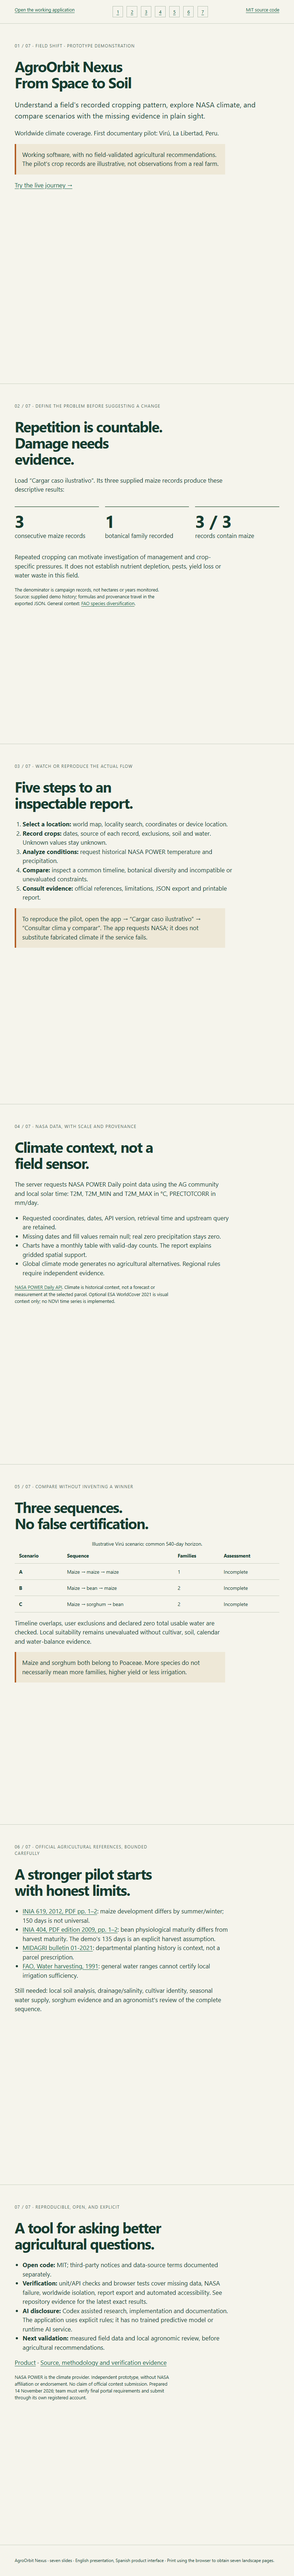
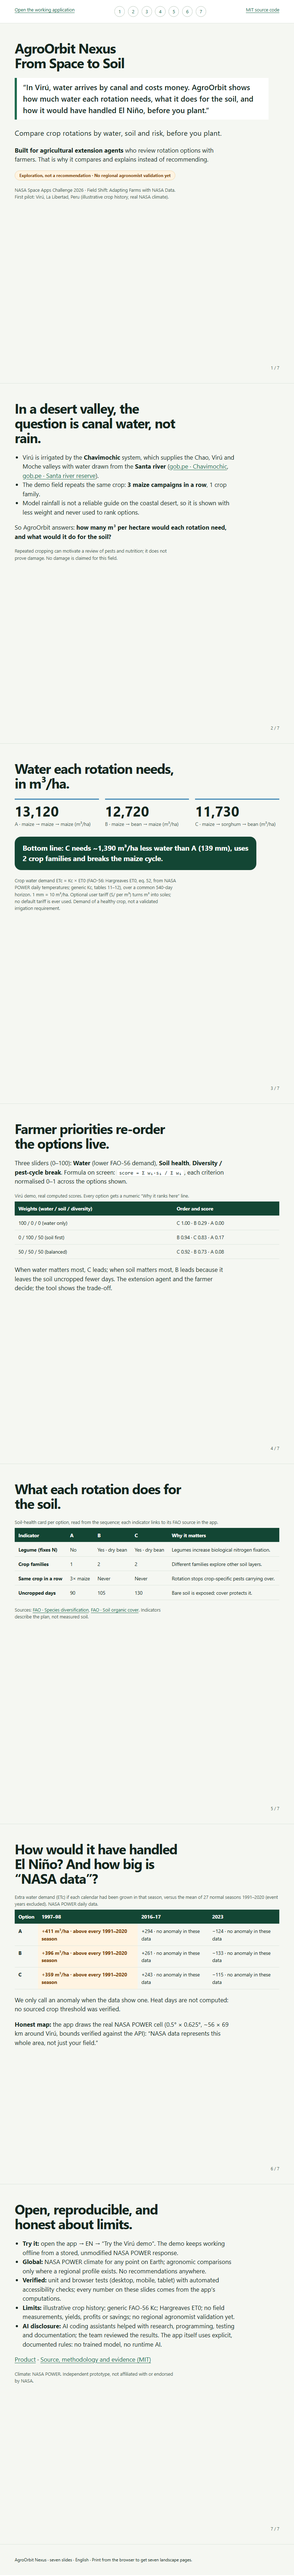
docs: English README, 30-second video script and project page text
README states the problem, the user (extension agents), the Virú figures, methods, limits, run and test steps, and a generic AI-use statement. VIDEO_SCRIPT and PROJECT_PAGE use only figures produced by the app. STATUS and METHODOLOGY record priorities, soil card, El Niño replay and NASA cell. Public links remain pending until deployment.

diff --git a/README.md b/README.md
@@ -1,67 +1,89 @@
 # AgroOrbit Nexus — From Space to Soil
 
-Plataforma agrícola de alcance mundial: clima histórico NASA POWER para coordenadas globales y análisis agrícola condicionado a la evidencia regional. Virú, Perú, es solo la demostración inicial. Sin login ni base de datos.
+**Compare crop rotations by water, soil and risk, before you plant.**
 
-**Estado al 14 de noviembre de 2026: solo localhost, por decisión del usuario.** Abrir http://127.0.0.1:3000; [demo inglesa local](http://127.0.0.1:3000/submission/index.html) y [PDF local](http://127.0.0.1:3000/submission/agroorbit-nexus-demo.pdf). Se retiró el acceso público al alojamiento anterior y sus referencias de los archivos vigentes. Clima NASA real; Virú ilustrativo con fichas INIA/MIDAGRI/FAO, sin validación agronómica de parcela o rotaciones. HLS/NDVI pendiente. Sin envío NASA comprobado.
+> In Virú, water arrives by canal and costs money. AgroOrbit shows how much water each rotation needs, what it does for the soil, and how it would have handled El Niño, before you plant.
 
-## Ejecutar
+**Built for agricultural extension agents who review rotation options with farmers.** That is why the app compares and explains instead of recommending: every result carries the label *“Exploration, not a recommendation · No regional agronomist validation yet”*.
 
-Requisitos: Node.js 24, npm y acceso a NASA POWER/teselas OSM.
+NASA Space Apps Challenge 2026 · **Field Shift: Adapting Farms with NASA Data**.
+
+- Working app (local): http://127.0.0.1:3000 · English UI: http://127.0.0.1:3000/?lang=en
+- Seven-slide deck (English): http://127.0.0.1:3000/submission/index.html · [PDF](public/submission/agroorbit-nexus-demo.pdf)
+- Public link: *pending — not deployed yet.*
+
+## What it shows (Virú demo, real NASA POWER data)
+
+| | A · maize → maize → maize | B · maize → bean → maize | C · maize → sorghum → bean |
+|---|---|---|---|
+| Water needed (FAO-56 ETc) | **13,120 m³/ha** | **12,720 m³/ha** | **11,730 m³/ha** |
+| Legume / crop families | No / 1 | Yes / 2 | Yes / 2 |
+| Same crop in a row | 3× maize | Never | Never |
+| Uncropped days | 90 | 105 | 130 |
+| El Niño 1997–98 (extra water vs 1991–2020) | +411 m³/ha, above every baseline season | +396 m³/ha, above every baseline season | +359 m³/ha, above every baseline season |
+
+**Bottom line (generated from the data):** *C needs ~1,390 m³/ha less water than A (139 mm), uses 2 crop families and breaks the maize cycle.*
+For 2016–17 and 2023 the replay shows **no anomaly in these data**, and the app says so.
+
+## How it works
+
+1. **Field** — search a place, use your location or click the map (opens on Peru). The map draws the real **NASA POWER cell** (0.5° × 0.625°, ~56 × 69 km at Virú, bounds verified against the API): *“NASA data represents this whole area, not just your field.”*
+2. **Crops** — past campaigns, the sequence you plan (A) and up to two options of your own.
+3. **Conditions** — daily NASA POWER climate (T2M, T2M_MIN, T2M_MAX, PRECTOTCORR; AG community, local solar time).
+4. **Options** — a data-generated *bottom line*; **farmer priorities** (three 0–100 sliders: water, soil health, diversity / pest-cycle break) that re-order the options live with the formula on screen (`score = Σ wᵢ·sᵢ / Σ wᵢ`, criteria normalised 0–1 across the options shown) and a numeric *“Why it ranks here”*; water in **m³/ha** (1 mm = 10 m³/ha) with an optional user tariff (S/ per m³, never a default); a **soil-health card** per option with FAO sources; and the **El Niño stress test**.
+5. **Evidence** — JSON export with inputs, daily data, rules, weights and limitations; printable report.
+
+In Virú, irrigation comes from the **Chavimochic** system, which supplies the Chao, Virú and Moche valleys with water from the **Santa river** ([gob.pe · Chavimochic](https://www.gob.pe/institucion/chavimochic/institucional), [gob.pe · Santa river reserve](https://www.gob.pe/institucion/chavimochic/noticias/1444272-chavimochic-proyecta-su-futuro-hidrico-solicita-ampliar-la-reserva-del-rio-santa)). Model rainfall is shown with less weight and a coastal-desert warning, and is never used to rank options.
+
+## Methods
+
+- **Water demand:** ETc = Kc × ET0. ET0 by Hargreaves (FAO-56 eq. 52) from NASA POWER Tmin/Tmax and extraterrestrial radiation (eq. 21); generic Kc curves (FAO-56 tables 11–12). Demand of a healthy crop, not a validated irrigation requirement.
+- **El Niño stress test:** each calendar is replayed with real daily NASA POWER temperatures starting in 1997, 2016 and 2023 and compared with 27 baseline seasons (starts 1991–2019, event years excluded). An anomaly is reported only when the season falls outside the baseline min–max. Heat days are **not computed**: no sourced crop-specific threshold was verified.
+- **Soil health:** legume present, crop families, back-to-back repeats, uncropped days — read from the plan, with [FAO species diversification](https://www.fao.org/conservation-agriculture/in-practice/species-diversification/en/) and [FAO soil organic cover](https://www.fao.org/conservation-agriculture/in-practice/soil-organic-cover/en/).
+- **Offline demo:** the exact NASA POWER responses for the Virú demo (2024-01-01 → 2025-06-23) and the 1991–2023 history are stored unmodified in `src/data/` (refresh with `scripts/snapshot-viru-*.mjs`). The live API is tried first; the stored response is labelled when used.
+
+Details: [METHODOLOGY](docs/METHODOLOGY.md) · [STATUS](docs/STATUS.md) · [evidence](docs/evidence/).
+
+## Limits (stated in the app)
+
+Illustrative crop history for the pilot; generic FAO-56 Kc; Hargreaves ET0 (tends to overestimate under high humidity); no field measurements, yields, profits or savings; no regional agronomist validation yet. Climate works worldwide; agronomic comparisons only where a regional profile exists.
+
+## Run
+
+Requirements: Node.js 24 and npm. No keys.
 
 ```powershell
 npm ci
-npm run dev
+npm run build
+npm start
 ```
 
-Abrir http://127.0.0.1:3000. Para producción local: `npm run build` y `npm start`. No se requieren claves. `.env.example` documenta esa ausencia; no guardar secretos en Git.
+Open http://127.0.0.1:3000 (add `?lang=en` for English). Development: `npm run dev`.
 
-## Recorrido comprobable
-
-1. Buscar una localidad/código postal, elegir un resultado y ajustar el punto en el mapa. También hay «Usar mi ubicación» con permiso del navegador y entrada manual de coordenadas. Al iniciar no hay coordenadas ni campañas precargadas. [Cómo encontrar el terreno](docs/LOCATION_SEARCH.md).
-2. Consultar clima global o registrar una secuencia propia para diagnóstico parcial. No se generan alternativas sin un perfil regional aplicable. Para reproducir el piloto, pulsar «Cargar caso ilustrativo».
-3. Elegir un periodo histórico de 30 a 731 días; solo la demo de Virú usa 540 días. Se descargan temperatura media/mínima/máxima y precipitación corregida de NASA POWER (comunidad AG, LST).
-4. Examinar gráfica, tabla mensual, unidades, días ausentes, fuente y fecha. La grilla no es una medición de la parcela.
-5. En la demo explícita de Virú, comparar A con maíz–frijol–maíz (B) y maíz–sorgo–frijol (C). Estas plantillas no se reutilizan en otros países. No existe todavía ninguna región con análisis agronómico validado ni recomendaciones habilitadas.
-6. Abrir restricciones y fuentes; descargar JSON con entradas, clima diario, metadatos, reglas y límites. Imprimir el informe desde el navegador.
-
-Si NASA falla, aparece un error y un informe parcial; no hay clima simulado de respaldo. Al editar datos, se señala que el informe anterior requiere recalcularse. El fixture NASA de pruebas no se usa en producción.
-
-## Verificar
+## Verify
 
 ```powershell
-npm run verify:skills
 npm run typecheck
 npm run lint
 npm test
-npm run build
-npm run verify:nasa
-npm run verify:global
-node scripts/verify-worldcover.mjs
 npx playwright install chromium
+npm run test:e2e
 ```
 
-Con `npm start` en otra terminal, ejecutar `npm run test:e2e`. Las pruebas de navegador requieren red; las unitarias usan un fixture NASA real y alteraciones controladas. Resultados y capturas: [VALIDATION](docs/VALIDATION.md), [STATUS](docs/STATUS.md), [evidencias](docs/evidence/).
+`npm run test:e2e` needs `npm start` running. Current results: 118 unit/API tests and 31 browser tests (desktop, Pixel 7, tablet; 2 skipped by design) with axe accessibility checks.
 
-## Alcance científico
+## Tech
 
-- Catálogo general FAO separado de fichas INIA 619/404 y contexto MIDAGRI. Variedades candidatas documentadas, sin identificar la realmente sembrada ni validar calendario local. Frijol de demo: supuesto de 135 días hasta cosecha, no 98 de madurez fisiológica. Fuentes/páginas/límites visibles y exportados.
-- Horizonte común configurable; la demo mantiene 540 días. Intervalos [siembra,cosecha), conteos de repetición/familias e intervalos sin cultivo registrado.
-- No se calcula ETo/ETc, ahorro de riego, nitrógeno fijado, rentabilidad, rendimiento ni daño del suelo. Un presupuesto positivo de agua no demuestra suficiencia.
-- La prioridad guía la revisión; no existe puntuación ni ranking validado. En el catálogo actual ninguna alternativa se certifica viable.
-- Capa opcional de cobertura terrestre ESA WorldCover 2021, con fuente/licencia y sin uso para recomendar cultivos. Sin procesamiento HLS/NDVI, clasificación propia ni modelo predictivo entrenado.
+Next.js 16, React 19, TypeScript, Tailwind 4, MapLibre 6, Recharts 3, Zod 4, Vitest, Playwright, axe. Design system: [DESIGN.md](DESIGN.md).
 
-Catálogo ampliable, perfiles regionales versionados, nombres localizados y contratos de fuentes/reglas: [alcance global y pruebas internacionales](docs/GLOBAL_SCOPE.md). La interfaz completa actual está en español; el registro admite contenido de nuevos idiomas. Las pruebas verifican seis consultas NASA internacionales; no acreditan aptitud agronómica ni carga masiva.
+## Use of AI
 
-## Tecnología y diseño
+AI coding assistants helped with research, programming, testing and documentation; the team reviewed the results. The application uses explicit, documented rules: no trained model and no AI service at runtime. See [AI_USAGE](docs/AI_USAGE.md).
 
-Next.js 16, React 19, TypeScript estricto, Tailwind 4, MapLibre 6, Recharts 3, Zod 4, Vitest 5, Playwright y axe. Versiones exactas en package-lock.json. Formularios nativos accesibles; no se añadió shadcn/ui para duplicarlos. Impeccable instalado en `.agents/skills/impeccable`; tres skills originales científicas/de verificación en el mismo directorio. [Fuentes, versiones y uso](docs/SKILLS.md), [contexto](PRODUCT.md), [diseño](DESIGN.md).
+## License and credits
 
-## Entrega y licencias
+Original code under MIT. Climate data: NASA POWER. Map: © OpenStreetMap contributors. Optional land cover: ESA WorldCover 2021 (CC BY 4.0). Independent prototype, not affiliated with or endorsed by NASA. [Third-party notices](docs/THIRD_PARTY_NOTICES.md).
 
-Código original MIT, elegido por el usuario. [Atribuciones y condiciones de terceros](docs/THIRD_PARTY_NOTICES.md). NASA POWER es fuente de datos; no hay afiliación ni aval NASA.
+---
 
-[Cumplimiento 2026 y puntos sin verificar](docs/NASA_COMPLIANCE.md), [uso real de IA](docs/AI_USAGE.md), [guion ES/EN y envío](docs/DEMO.md), [despliegue](docs/DEPLOYMENT.md). El push a GitHub no publica la aplicación ni envía el proyecto al concurso.
-
-Repositorio esperado: https://github.com/bel001/AgroOrbit-Nexus.git. Documentación inicial conservada en el primer commit; metodología actual en [METHODOLOGY](docs/METHODOLOGY.md).
-
-> AgroOrbit Nexus is an explainable crop-rotation scenario tool. It combines real NASA POWER historical climate with farmer-provided context and transparent evidence gaps. It does not certify local agronomic suitability or predict yields.
+**Resumen en español.** AgroOrbit Nexus compara rotaciones de cultivos por agua (m³/ha, FAO-56), salud del suelo y riesgo (El Niño) con datos diarios de NASA POWER. Hecho para extensionistas agrarios que revisan opciones con los agricultores: compara y explica, no recomienda. La interfaz está en español e inglés (botón ES/EN o `?lang=en`). Virú es el primer piloto, con historial ilustrativo y sin validación agronómica regional todavía.

diff --git a/docs/PROJECT_PAGE.md b/docs/PROJECT_PAGE.md
@@ -1,0 +1,56 @@
+# Project page text (NASA Space Apps 2026) — draft in English
+
+Paste into the Space Apps project page. Replace the two pending links after deployment. Confirm the exact field names in the portal.
+
+## Project name
+AgroOrbit Nexus — From Space to Soil
+
+## Challenge
+Field Shift: Adapting Farms with NASA Data
+
+## High-level summary
+In Virú, Peru, water arrives by canal and costs money. AgroOrbit Nexus shows how much water each crop rotation needs, what it does for the soil, and how it would have handled El Niño, before you plant. It is built for agricultural extension agents who review rotation options with farmers: it turns NASA POWER daily climate into FAO-56 crop water demand in m³/ha, scores each option's soil health with FAO-sourced indicators, re-orders options live by the farmer's own priorities, and replays every rotation on past El Niño seasons. It compares and explains; it does not recommend.
+
+## Links
+- Project demo (slides / video): *pending public link*
+- Final project (working app): *pending public link* — local: http://127.0.0.1:3000/?lang=en
+- Source code (MIT): https://github.com/bel001/AgroOrbit-Nexus
+
+## Detailed description
+
+**Problem.** In the irrigated desert valleys of coastal Peru, a rotation decision is a water decision: in Virú, irrigation water comes from the Chavimochic system, which draws it from the Santa river. Rain is almost irrelevant there, and repeated maize leaves one crop family in the field. Extension agents need a fast, honest way to compare options with a farmer.
+
+**What it does.** Pick a field anywhere (search, GPS or map), record past and planned campaigns, and AgroOrbit:
+1. Downloads daily NASA POWER climate for the point and shows the real NASA cell (~56 × 69 km at Virú): *“NASA data represents this whole area, not just your field.”*
+2. Computes each rotation's crop water demand (ETc = Kc × Hargreaves ET0, FAO-56) in **m³/ha**, with an optional user tariff to see soles (never a default tariff).
+3. Shows a soil-health card per option: legume (nitrogen fixation), crop families, back-to-back repeats and uncropped days, each with why it matters and an FAO source.
+4. Lets the farmer's priorities (water, soil health, diversity / pest-cycle break) re-order the options live, with the formula on screen and a numeric “why it ranks here” line.
+5. Replays each rotation on the 1997–98, 2016–17 and 2023 El Niño seasons against 27 normal seasons (1991–2020) and reports an anomaly only when the data show one.
+6. Writes a data-generated bottom line and exports everything (inputs, daily data, rules, weights, limits) as JSON.
+
+**Virú demo results (illustrative crop history, real NASA data).** Water needed: A maize→maize→maize 13,120 m³/ha; B maize→bean→maize 12,720 m³/ha; C maize→sorghum→bean 11,730 m³/ha. Bottom line: *C needs ~1,390 m³/ha less water than A (139 mm), uses 2 crop families and breaks the maize cycle.* In the 1997–98 El Niño replay every option would have needed 359–411 m³/ha more, above every baseline season; 2016–17 and 2023 show no anomaly in these data.
+
+**Why it is different.** It speaks the extension agent's language (m³ of canal water per hectare, not rainfall), it is explicit about scale (the NASA grid cell is drawn on the map), it stress-tests options against real past El Niño seasons, and it never invents numbers: every figure comes from NASA POWER data and documented FAO-56 methods, every claim has a source, and missing data stays missing.
+
+**Global.** Climate works for any point on Earth; agronomic comparisons are enabled only where a regional profile exists. English and Spanish interface.
+
+**Limits.** Illustrative crop history in the pilot; generic FAO-56 crop coefficients; Hargreaves ET0; no field measurements, yields, profits or savings; no regional agronomist validation yet. Label shown in the app: *Exploration, not a recommendation · No regional agronomist validation yet.*
+
+**Tools.** Next.js, React, TypeScript, MapLibre, Recharts, Zod, Vitest, Playwright, axe. 118 unit/API tests and 31 browser tests (desktop, mobile, tablet) with accessibility checks.
+
+## Use of NASA data
+NASA POWER Daily API (point; AG community; local solar time): T2M, T2M_MIN, T2M_MAX (°C) and PRECTOTCORR (mm/day), for the user's point and, for the Virú demo, 1991-01-01 → 2025-06-23. Used for FAO-56 ET0/ETc water demand, degree-days, the 1991–2020 baseline and the El Niño replay. The MERRA-2 cell size (0.5° × 0.625°) was verified against the API and is drawn on the map. Source: https://power.larc.nasa.gov/ · Not affiliated with or endorsed by NASA. **Before submitting, confirm that NASA POWER is listed in the Field Shift resources.**
+
+## Other data and references
+- FAO Irrigation and Drainage Paper 56 (crop evapotranspiration): https://www.fao.org/4/X0490E/X0490E00.htm
+- FAO conservation agriculture: species diversification — https://www.fao.org/conservation-agriculture/in-practice/species-diversification/en/ ; soil organic cover — https://www.fao.org/conservation-agriculture/in-practice/soil-organic-cover/en/
+- Proyecto Especial Chavimochic (gob.pe): https://www.gob.pe/institucion/chavimochic/institucional
+- INIA and MIDAGRI documents for the Virú pilot (listed in the app and in docs/research/VIRU_SOURCE_NOTES.md)
+- McMaster & Wilhelm (1997), growing degree-days: https://doi.org/10.1016/S0168-1923(97)00027-0
+- OpenStreetMap (map tiles), ESA WorldCover 2021 (optional land cover, CC BY 4.0), Open-Meteo/GeoNames (place search)
+
+## Use of artificial intelligence (AI)
+AI coding assistants helped with research, programming, testing and documentation; the team reviewed the results. No AI-generated images, video or audio are used in the product or the slides. The application itself uses explicit, documented rules and FAO-56 formulas: there is no trained model and no AI service at runtime.
+
+## Tags
+agriculture · crop rotation · irrigation · water · soil health · El Niño · NASA POWER · FAO-56 · Peru · extension agents

diff --git a/docs/METHODOLOGY.md b/docs/METHODOLOGY.md
@@ -179,3 +179,11 @@ Por estrategia: identificador; horizonte; fuente y fecha de datos; comprobacione
 - [NASA HLS](https://hls.gsfc.nasa.gov/)
 - [Dynamic World dataset](https://developers.google.com/earth-engine/datasets/catalog/GOOGLE_DYNAMICWORLD_V1)
 - [FAO-56](https://www.fao.org/4/X0490E/X0490E00.htm)
+
+## Entrega 2026-11-15: prioridades, salud del suelo, El Niño y celda NASA
+
+- **Prioridades del agricultor** (`src/lib/priorities.ts`): tres criterios normalizados min–max entre las opciones mostradas (1 = mejor del grupo): agua = menor ETc FAO-56; salud del suelo = media con igual peso de leguminosa (0/1), familias, repeticiones seguidas (menos es mejor) y días sin cultivo (menos es mejor); diversidad = media de familias y repeticiones. `score = Σ wᵢ·sᵢ / Σ wᵢ`. Opciones incompatibles no se ordenan; sin ETc completa, el criterio agua se descarta con aviso. Puntuación relativa, no calidad absoluta.
+- **Salud del suelo** (`src/lib/soil.ts`): indicadores leídos del plan, no del suelo medido. Fuentes: FAO species diversification (fijación de N, plagas específicas, exploración del perfil) y FAO soil organic cover (protección del suelo sin cultivo).
+- **Bottom line** (`src/lib/bottom-line.ts`): opción de menor ETc frente a A; diferencia en m³/ha redondeada a 10 (1 mm = 10 m³/ha).
+- **El Niño** (`src/lib/elnino.ts`): el calendario de cada opción se repite con temperaturas NASA POWER diarias desde el 1 de enero de 1997, 2016 y 2023; línea base = 27 temporadas con inicio 1991–2019, excluidos 1997 y 2016. Anomalía solo si la ETc queda fuera del mínimo–máximo de la línea base. Resultado en Virú: 1997–98 por encima de todas las temporadas; 2016–17 y 2023 dentro del rango. Hargreaves tiende a sobrestimar ET0 con humedad alta (FAO-56). Días de calor no calculados: no se verificó un umbral por cultivo con fuente.
+- **Celda NASA POWER** (`src/lib/grid.ts`): grilla MERRA-2 0,5° × 0,625°, límites verificados contra la API en Virú (`docs/evidence/power-grid-check.json`).

diff --git a/docs/STATUS.md b/docs/STATUS.md
@@ -13,6 +13,17 @@
 - Fichas INIA 619/404, MIDAGRI y FAO con edición/página, alcance y faltantes en UI/JSON. Frijol de demo: supuesto de 135 días a cosecha, sin confundir madurez fisiológica. Investigación: `research/VIRU_SOURCE_NOTES.md`.
 - JSON 2.1 trazable e impresión. Deck inglés de siete diapositivas y PDF verificado de siete páginas. Capa ESA WorldCover 2021 opcional; estado de teselas corregido y probado sin depender del mapa base.
 
+## Actualización 2026-11-15: entrega Field Shift
+
+- Prioridades del agricultor (agua, salud del suelo, diversidad) con ranking ponderado, fórmula visible, «Why it ranks here» y reordenación en vivo.
+- Bottom line generado con datos; tarjetas de salud del suelo con fuentes FAO; agua en m³/ha con tarifa opcional del usuario; contexto Chavimochic/río Santa (gob.pe); lluvia del modelo con menos peso y advertencia.
+- Prueba de estrés El Niño (1997–98, 2016–17, 2023) contra 27 temporadas 1991–2020 con datos NASA guardados: 1997–98 por encima de todo el rango; 2016–17 y 2023 sin anomalía. Días de calor no calculados (sin umbral con fuente).
+- Mapa centrado en Perú con la celda NASA POWER verificada (docs/evidence/power-grid-check.json) y su leyenda.
+- Interfaz ES/EN (?lang=en). Snapshots NASA en src/data/, solo en servidor; demo funciona sin internet (comprobado con todo el tráfico bloqueado; sin mapa base).
+- Diapositivas, PDF, guion de video (docs/VIDEO_SCRIPT.md), página del proyecto (docs/PROJECT_PAGE.md) y README en inglés.
+- Pruebas: 118 unitarias/API y 31 e2e aprobadas (2 omitidas deliberadamente), axe sin violaciones también en inglés.
+- Pendiente: despliegue público (a la espera de autorización), envío en el portal NASA y confirmación de que NASA POWER figura en los recursos de Field Shift.
+
 ## Actualización 2026-11-14 (noche): usabilidad del flujo con terreno propio
 
 Revisión manual del recorrido como usuario nuevo (escritorio y móvil) y correcciones:

diff --git a/docs/AI_USAGE.md b/docs/AI_USAGE.md
@@ -10,7 +10,11 @@ Entradas de IA: instrucciones del equipo, documentos del repositorio, documentac
 
 Producto implementado: reglas deterministas e indicadores descriptivos; no usa API de IA en ejecución ni genera recomendaciones con un LLM. Tests automatizados y revisión del propio asistente no equivalen a revisión científica humana. El usuario eligió MIT; faltan validación agronómica local y revisión final del equipo.
 
-Declaración breve para adaptar al portal: «Utilizamos Codex para asistir en programación, pruebas y documentación. El producto consulta NASA POWER y aplica reglas deterministas trazables, sin modelo predictivo entrenado. El historial del caso piloto es ilustrativo. Conservamos incertidumbres y limitaciones; no validamos mejoras de rendimiento o ahorro hídrico».
+Actualización 2026-11-15: además de Codex, se usaron otros asistentes de IA para programación, pruebas y documentación (prioridades, salud del suelo, prueba de El Niño, idioma inglés y entrega). No se generaron imágenes, video ni audio.
+
+Declaración breve para el portal (versión vigente, en inglés): «AI coding assistants helped with research, programming, testing and documentation; the team reviewed the results. No AI-generated images, video or audio are used. The application uses explicit, documented rules and FAO-56 formulas: no trained model and no AI service at runtime.»
+
+Declaración anterior (2026-11-14): «Utilizamos Codex para asistir en programación, pruebas y documentación. El producto consulta NASA POWER y aplica reglas deterministas trazables, sin modelo predictivo entrenado. El historial del caso piloto es ilustrativo. Conservamos incertidumbres y limitaciones; no validamos mejoras de rendimiento o ahorro hídrico».
 
 Las tablas originales siguientes describen la propuesta inicial; AgroMonitor, clustering y generación automática de explicaciones siguen sin implementarse.
 

diff --git a/docs/VIDEO_SCRIPT.md b/docs/VIDEO_SCRIPT.md
@@ -1,0 +1,12 @@
+# 30-second demo video — script (English)
+
+Recorded from the local app in English: http://127.0.0.1:3000/?lang=en. Every figure below is the app's own output for the Virú demo (NASA POWER data, FAO-56); re-check on screen before recording. No AI-generated images or voices; if any are used, they must carry the visible AI mark required by the 2026 rules.
+
+| Time | On screen | Voice-over |
+|---|---|---|
+| 0:00–0:07 | Hero → click **Try the Virú demo** → the map frames the dashed **NASA cell** around Virú; then the **“In Virú, water arrives by canal, not by rain”** box. | “In Virú, Peru, the desert valley's water arrives by canal, from the Santa river, and it costs money. Rain is not the question: how much water does each rotation need?” |
+| 0:07–0:15 | **Water each rotation needs**: A 13,120 · B 12,720 · C 11,730 **m³/ha**; zoom on the **Bottom line**. | “AgroOrbit turns NASA POWER climate into crop water demand. Rotation C needs about 1,390 cubic metres per hectare less than three seasons of maize, uses two crop families, and breaks the maize cycle.” |
+| 0:15–0:24 | **Farmer priorities**: drag **Water** to 100 (C first), then **Soil health** to 100 with water at 0 (B moves to first); show one **“Why it ranks here”** line. | “Extension agents set the farmer's priorities. Water first, C leads. Soil first, B leads, because the soil stays uncropped fewer days. Every rank explains itself with numbers.” |
+| 0:24–0:30 | **El Niño** table (1997–98 highlighted), then the label *Exploration, not a recommendation*. | “Replayed on 1997–98 El Niño temperatures, every option would have needed 359 to 411 cubic metres more per hectare. Exploration, not a recommendation, before you plant.” |
+
+Checks before publishing: the clip is 30 s or less; the slide deck and the product links open without sign-in; captions match the narration.
